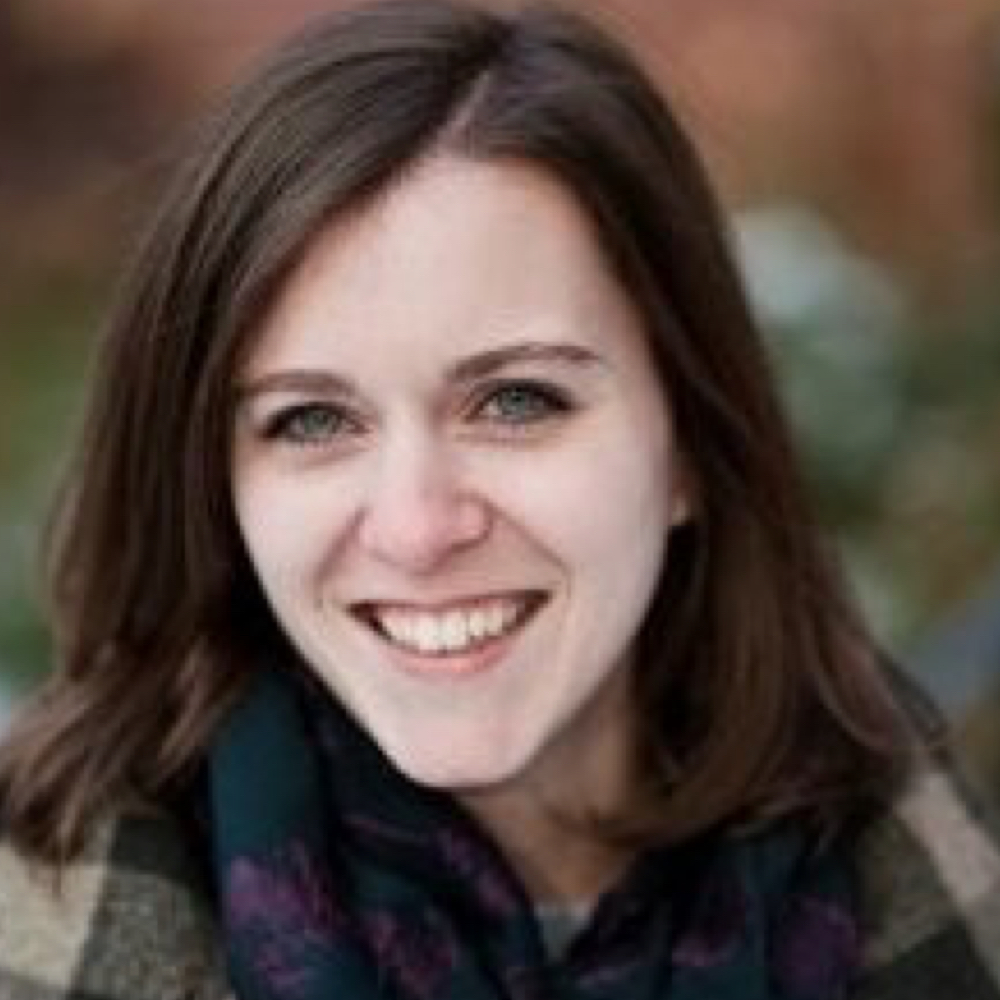
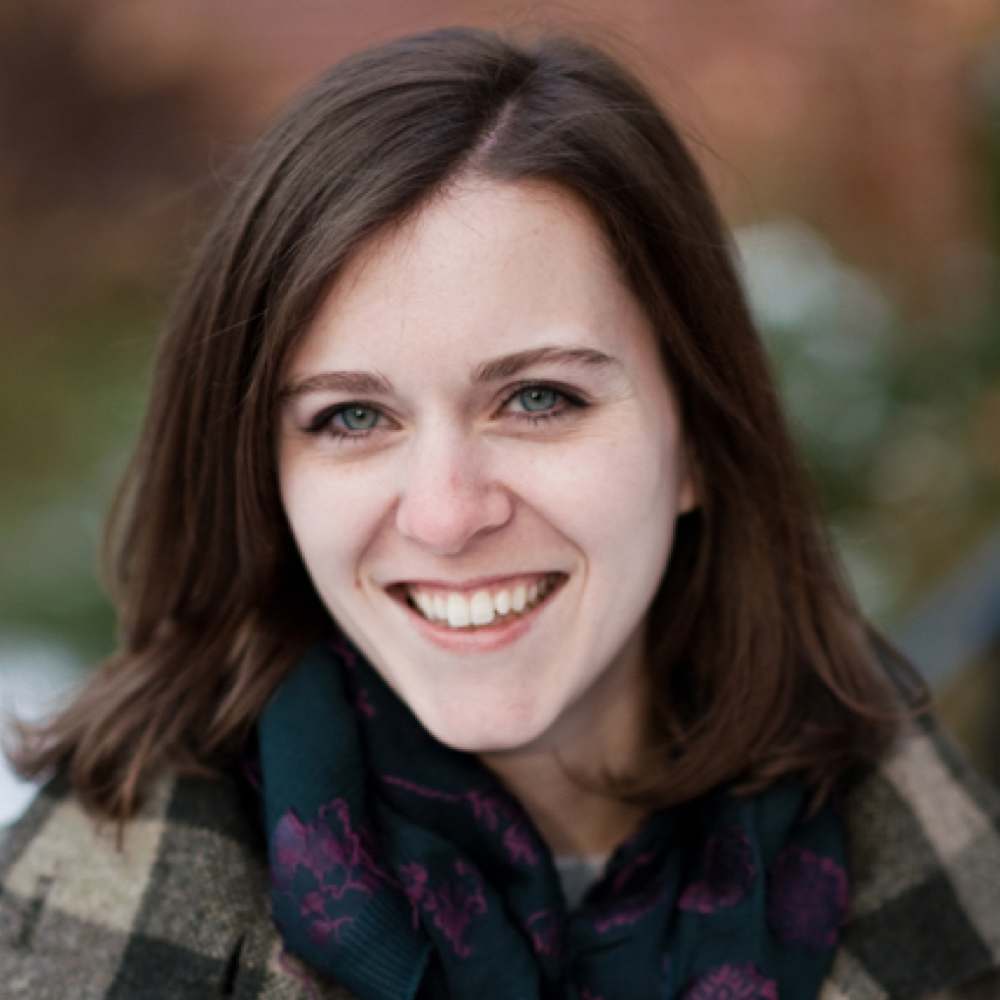
Updated Maggies headshot and add her bio

diff --git a/conference/speakers.data.php b/conference/speakers.data.php
@@ -88,7 +88,7 @@ $speakers[] = array(
 	'company' => 'Drift',
 	'discipline' => 'product-management',
 	'photo' => 'headshots/maggiecrowley.jpg',
-	'bio' => 'Coming Soon',
+	'bio' => 'Maggie Crowley is a Director of Product at Drift, where she works on bots and automation, and is the host of #Build on Seeking Wisdom, a podcast focused on how to build products better. She’s also an Olympian and has an MBA from Harvard Business School.',
 	'twitter' => 'maggiecrowley',
 	'instagram' => '',
 	'linkedin' => 'https://www.linkedin.com/in/maggie-crowley-42a97112/'
